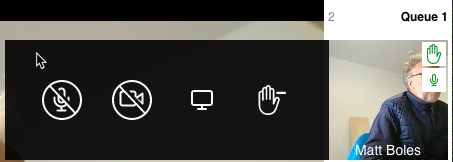
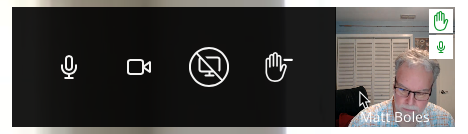
updates

diff --git a/experiences/virtual-event/using-interactive-rooms.html b/experiences/virtual-event/using-interactive-rooms.html
@@ -75,7 +75,7 @@ layout: staging
     </table>
     <p>&nbsp;</p>
     <h4>Enabling your camera</h4>
-    <p>If the speaker has enabled camera access, you can turn on your camera by clicking the camera icon.</p>
+    <p>If the speaker has enabled camera access, you can turn on your camera by clicking the camera icon. Cameras can only be activated if you have raised your hand and you are in the queue.</p>
     <table width="271">
       <tbody>
         <tr>
